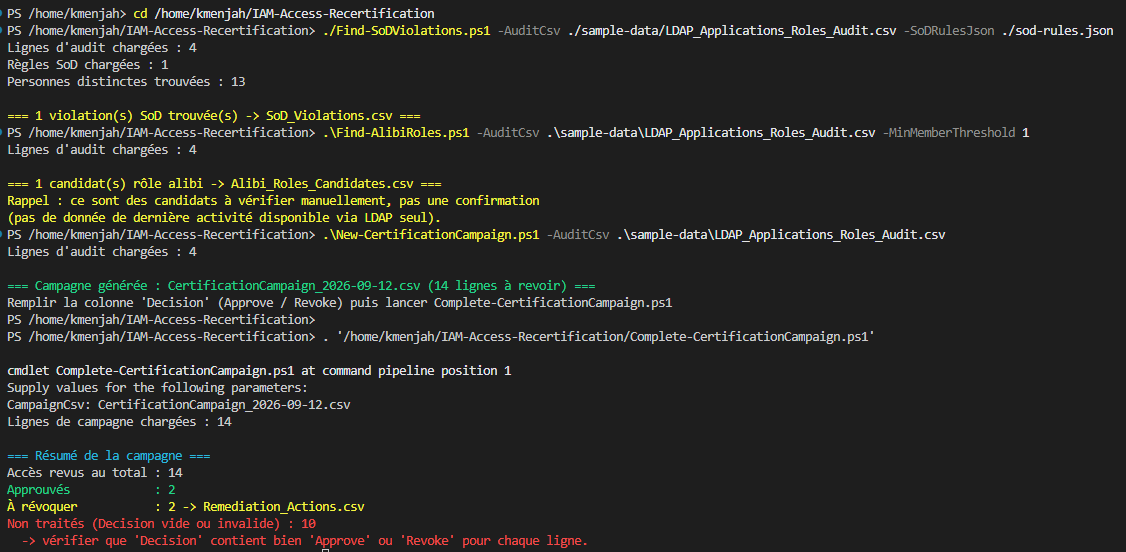
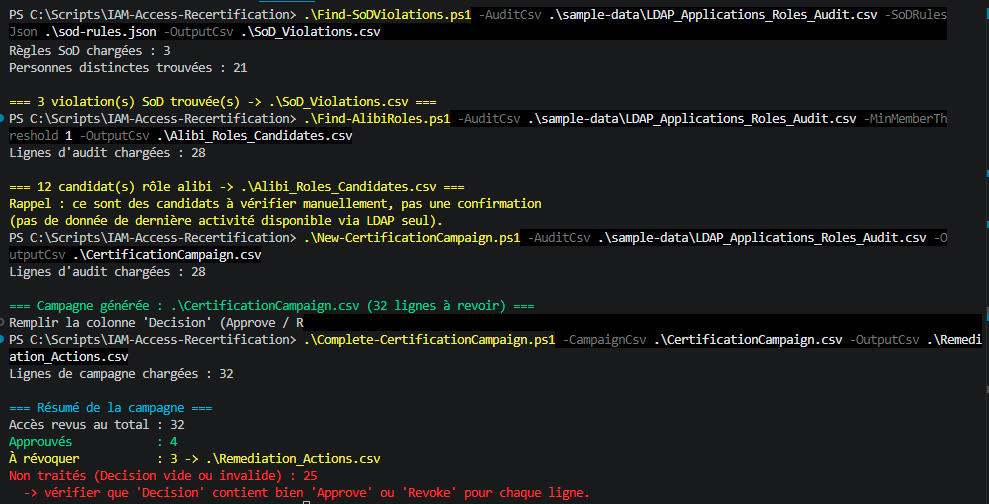
Rejoue l'exemple de bout en bout sur les vraies données AD du lab
Remplace le CSV d'exemple forumsys par l'audit réel du lab Active
Directory (8 apps, 21 utilisateurs), avec des règles SoD dérivées des
cumuls constatés (Comptabilite/ERP, CRM/SIRH) plutôt qu'une règle
démo. Régénère les 4 sorties du pipeline en conséquence, fixe le nom
de sortie de la campagne pour que les commandes du README restent
copiables sans adaptation de date, et remplace les captures d'écran.

Changed region(s): [[0.0, 0.0, 1.0, 0.7738], [0.0, 0.8036, 0.5763, 1.0]]

diff --git a/README.md b/README.md
@@ -31,17 +31,13 @@ PowerShell 7+.
 
 ## ▶ Utilisation
 
-Les commandes ci-dessous s'exécutent depuis la racine du repo (`cd IAM-Access-Recertification`
-d'abord). Les chemins sont relatifs à ce dossier — le fichier d'exemple se trouve dans le
-sous-dossier `sample-data/`, pas à la racine. Sous Linux/macOS (PowerShell 7+), utilisez des
-slashs normaux plutôt que des antislashs : `./sample-data/...` au lieu de `.\sample-data\...`.
-Si vous lancez un script sans arguments, il vous demandera chaque valeur une par une : donnez
-le même chemin que dans les exemples ci-dessous.
+Les commandes ci-dessous s'exécutent depuis la racine du repo et sont directement à
+copier-coller.
 
 ### 1. Détection des violations SoD
 
 ```powershell
-.\Find-SoDViolations.ps1 -AuditCsv .\sample-data\LDAP_Applications_Roles_Audit.csv -SoDRulesJson .\sod-rules.json
+.\Find-SoDViolations.ps1 -AuditCsv .\sample-data\LDAP_Applications_Roles_Audit.csv -SoDRulesJson .\sod-rules.json -OutputCsv .\SoD_Violations.csv
 ```
 
 Les règles SoD sont définies dans un fichier JSON, une paire d'accès incompatibles par règle
@@ -62,13 +58,15 @@ Un `Role` vide dans la clé (`"Application:"`) désigne l'accès direct à l'app
 
 [`sod-rules-examples.json`](sod-rules-examples.json) est un catalogue de règles SoD classiques
 en entreprise (Finance, Achats, IT, RH, Sécurité, ITIL/SOX) — à adapter avec les vrais noms
-d'application/rôle de votre annuaire, pas exécutable tel quel contre `sample-data/` (qui ne
-contient que les groupes du serveur LDAP public de démo).
+d'application/rôle de votre annuaire ; ce ne sont que des exemples génériques, pas exécutables
+tel quel contre `sample-data/`. Les règles réellement utilisées dans l'exemple ci-dessous
+([`sod-rules.json`](sod-rules.json)) sont, elles, dérivées des cumuls constatés dans
+`sample-data/`.
 
 ### 2. Détection des rôles alibi
 
 ```powershell
-.\Find-AlibiRoles.ps1 -AuditCsv .\sample-data\LDAP_Applications_Roles_Audit.csv -MinMemberThreshold 1
+.\Find-AlibiRoles.ps1 -AuditCsv .\sample-data\LDAP_Applications_Roles_Audit.csv -MinMemberThreshold 1 -OutputCsv .\Alibi_Roles_Candidates.csv
 ```
 
 Signale les rôles à 0 membre ("Vide") et ceux à `MinMemberThreshold` membre(s) ou moins
@@ -79,7 +77,7 @@ réellement obsolète, seulement qu'il mérite qu'on s'y penche.
 ### 3. Génération d'une campagne de recertification
 
 ```powershell
-.\New-CertificationCampaign.ps1 -AuditCsv .\sample-data\LDAP_Applications_Roles_Audit.csv
+.\New-CertificationCampaign.ps1 -AuditCsv .\sample-data\LDAP_Applications_Roles_Audit.csv -OutputCsv .\CertificationCampaign.csv
 ```
 
 Produit un CSV (ouvrable dans Excel/LibreOffice) avec une ligne par personne + accès, et des
@@ -89,7 +87,7 @@ l'application ou le manager concerné. `Decision` attend `Approve` ou `Revoke`.
 ### 4. Traitement de la campagne remplie
 
 ```powershell
-.\Complete-CertificationCampaign.ps1 -CampaignCsv .\CertificationCampaign_2026-08-21.csv
+.\Complete-CertificationCampaign.ps1 -CampaignCsv .\CertificationCampaign.csv -OutputCsv .\Remediation_Actions.csv
 ```
 
 Lit la colonne `Decision` remplie (insensible à la casse) et produit :
@@ -99,16 +97,18 @@ Lit la colonne `Decision` remplie (insensible à la casse) et produit :
 
 ## 📊 Exemple de bout en bout
 
-Avec les données d'exemple ([`sample-data/`](sample-data)) et la règle de démo dans
-[`sod-rules.json`](sod-rules.json), sortie réelle obtenue en exécutant les 4 scripts à la
-suite (testé de bout en bout sur Windows PowerShell 5.1) :
+Avec les données d'exemple ([`sample-data/`](sample-data) — audit réel du lab Active Directory
+décrit dans [LDAP-App-Role-Audit](https://github.com/Anne-LaureS/LDAP-App-Role-Audit), 8
+applications et 21 utilisateurs) et les règles SoD dans [`sod-rules.json`](sod-rules.json)
+(dérivées des cumuls constatés dans ce lab), sortie réelle obtenue en exécutant les 4 scripts à
+la suite :
 
 | Étape | Sortie |
 |---|---|
-| [`Find-SoDViolations.ps1`](Find-SoDViolations.ps1) | [`SoD_Violations.csv`](SoD_Violations.csv) — 1 violation : `tesla` cumule Scientists (accès direct) + rôle Italians |
-| [`Find-AlibiRoles.ps1`](Find-AlibiRoles.ps1) | [`Alibi_Roles_Candidates.csv`](Alibi_Roles_Candidates.csv) — 1 candidat : rôle Italians (Scientists), 1 seul membre |
-| [`New-CertificationCampaign.ps1`](New-CertificationCampaign.ps1) | [`CertificationCampaign_2026-08-21.csv`](CertificationCampaign_2026-08-21.csv) — 14 lignes à revoir (1 par personne/accès), partiellement remplie ici à titre d'exemple |
-| [`Complete-CertificationCampaign.ps1`](Complete-CertificationCampaign.ps1) | [`Remediation_Actions.csv`](Remediation_Actions.csv) — révocations issues des décisions ci-dessus |
+| [`Find-SoDViolations.ps1`](Find-SoDViolations.ps1) | [`SoD_Violations.csv`](SoD_Violations.csv) — 3 violations : `jdupont` (Comptabilite-Admin + ERP-Utilisateur), `hlemoine` (ERP-Admin + Comptabilite-Standard), `lrousseau` (CRM-Admin + SIRH-Admin) |
+| [`Find-AlibiRoles.ps1`](Find-AlibiRoles.ps1) | [`Alibi_Roles_Candidates.csv`](Alibi_Roles_Candidates.csv) — 12 candidats "Quasi-vide" (essentiellement les rôles Admin, à 1 seul membre chacun dans ce lab) |
+| [`New-CertificationCampaign.ps1`](New-CertificationCampaign.ps1) | [`CertificationCampaign.csv`](CertificationCampaign.csv) — 32 lignes à revoir (1 par personne/accès), partiellement remplie ici à titre d'exemple |
+| [`Complete-CertificationCampaign.ps1`](Complete-CertificationCampaign.ps1) | [`Remediation_Actions.csv`](Remediation_Actions.csv) — 3 révocations, correspondant aux 3 violations SoD ci-dessus |
 
 ![Exécution des 4 scripts en console](screenshots/terminal-run.png)
 
